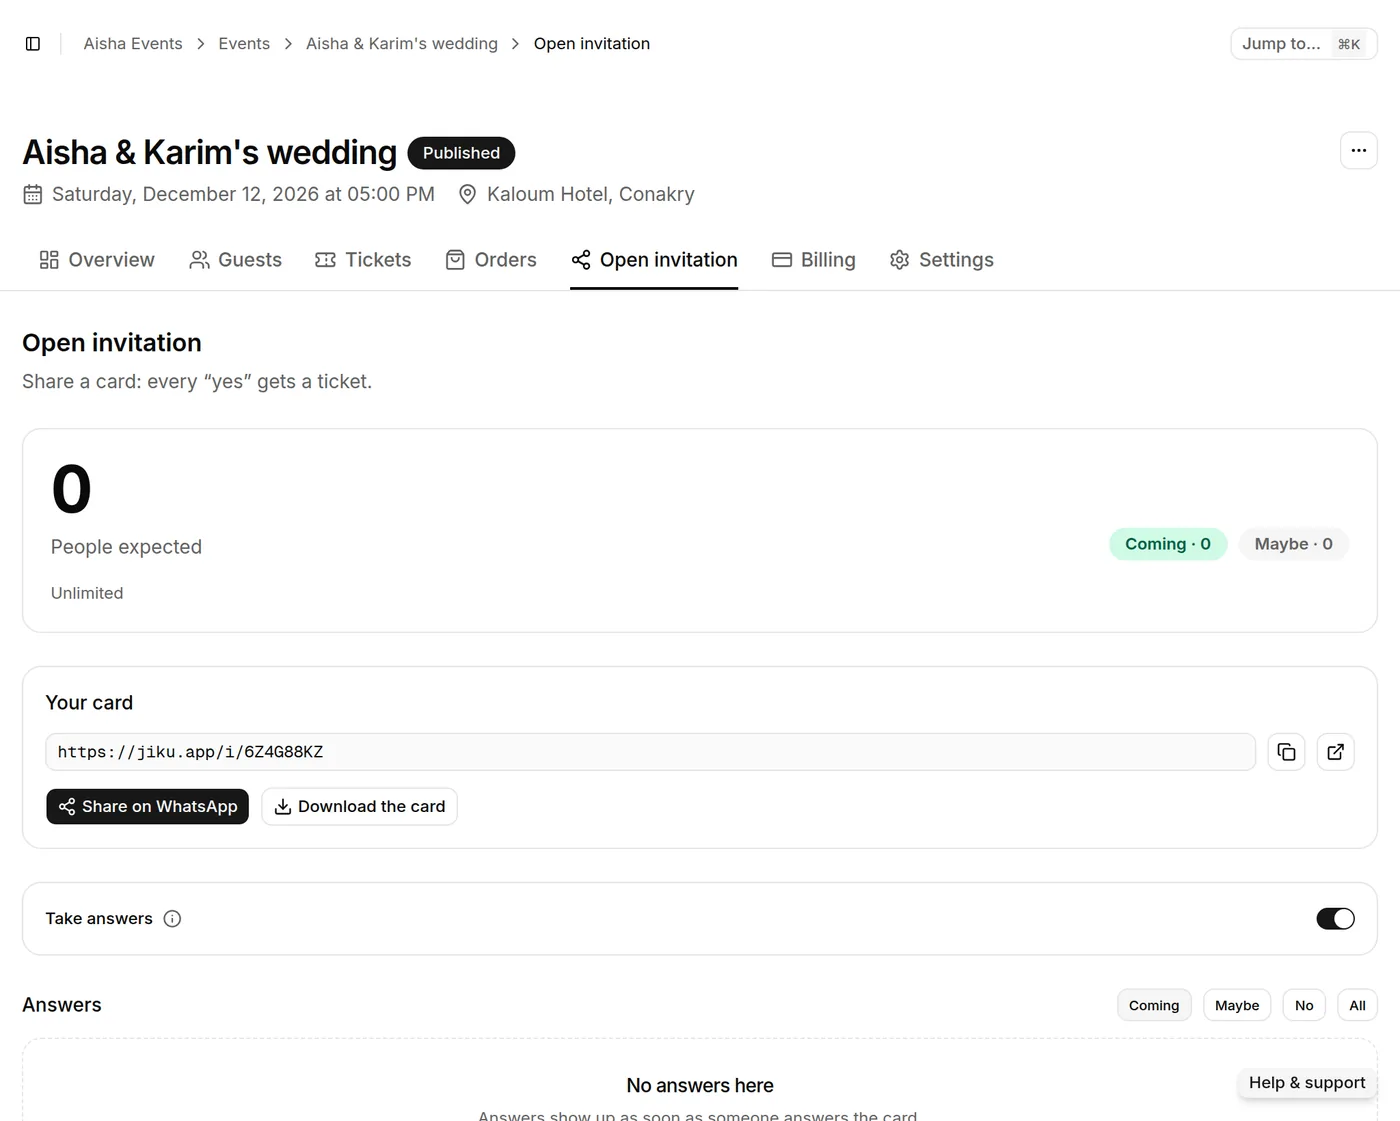
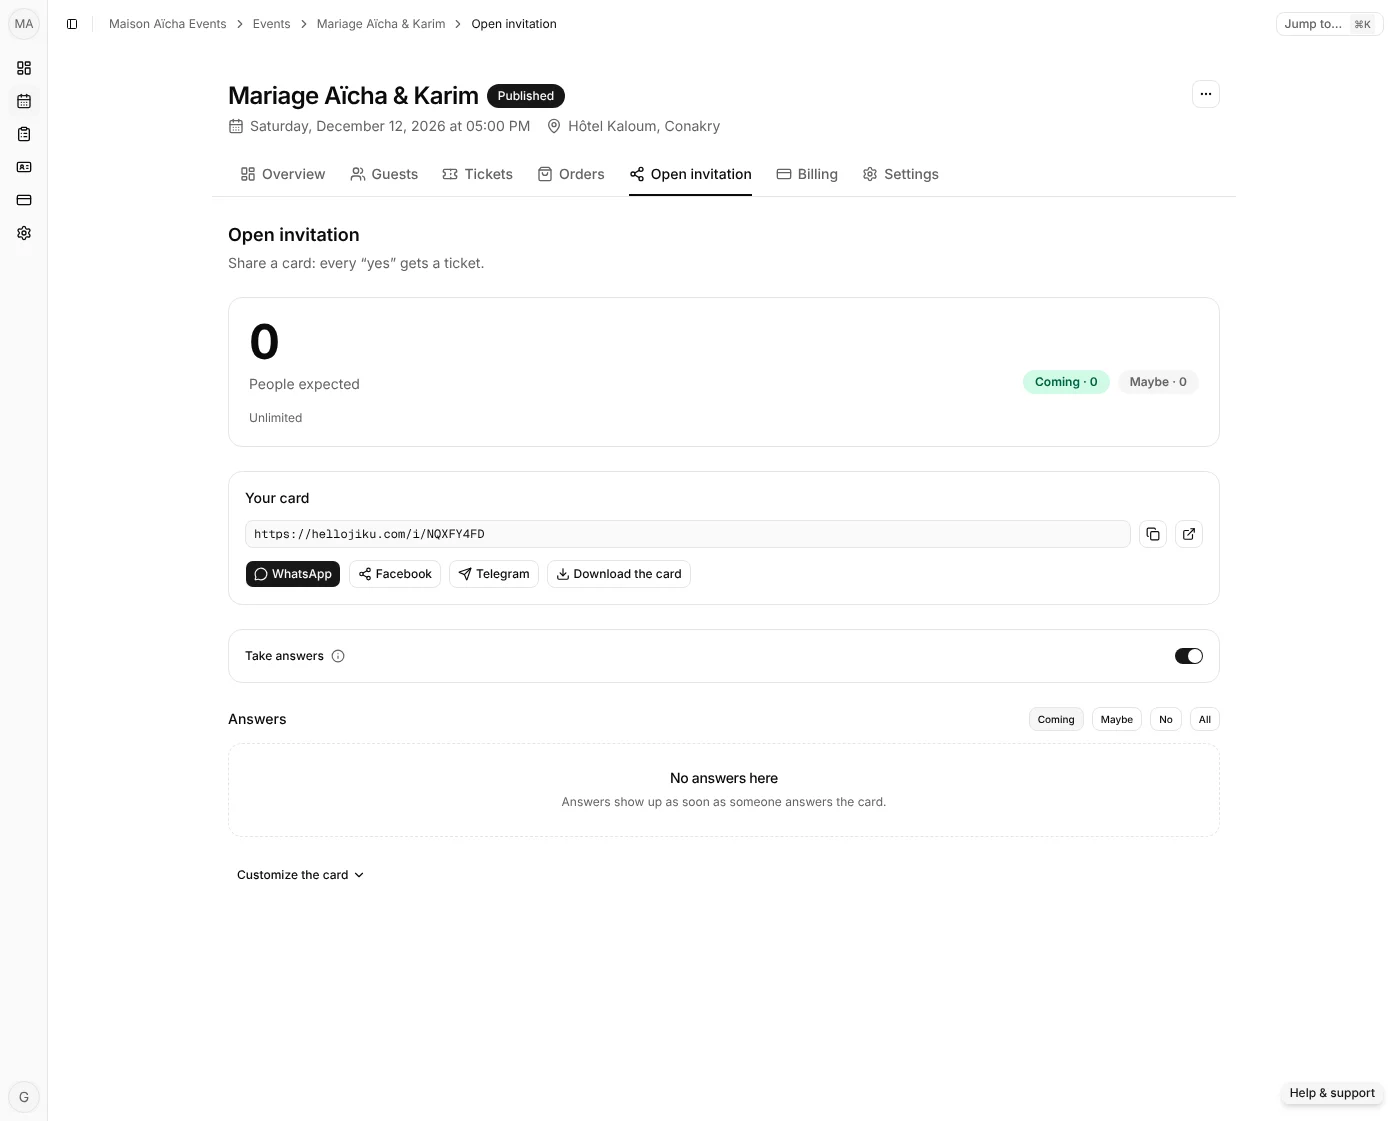
docs(guide): retake the open invitation screenshot with the share buttons
The WhatsApp button also takes a chat bubble, so it reads apart from
Facebook's share icon.

Refs: JIKU-280

diff --git a/components/modules/open-invitation/share-panel.tsx b/components/modules/open-invitation/share-panel.tsx
@@ -2,7 +2,7 @@
 
 import { useEffect, useRef, useState, useSyncExternalStore } from "react";
 import { useLocale, useTranslations } from "next-intl";
-import { Check, Copy, Download, ExternalLink, Loader2, Send, Share2 } from "lucide-react";
+import { Check, Copy, Download, ExternalLink, Loader2, MessageCircle, Send, Share2 } from "lucide-react";
 import { toast } from "sonner";
 import { Button } from "@/components/ui/button";
 import { Input } from "@/components/ui/input";
@@ -103,7 +103,7 @@ export function SharePanel({ code, card }: { code: string; card: CardDetails }) 
   }
 
   const networks = [
-    { network: "whatsapp", href: whatsappShareLink(message), label: t("whatsapp"), icon: Share2 },
+    { network: "whatsapp", href: whatsappShareLink(message), label: t("whatsapp"), icon: MessageCircle },
     { network: "facebook", href: facebookShareLink(url), label: t("facebook"), icon: Share2 },
     { network: "telegram", href: telegramShareLink(url, message), label: t("telegram"), icon: Send },
   ];
